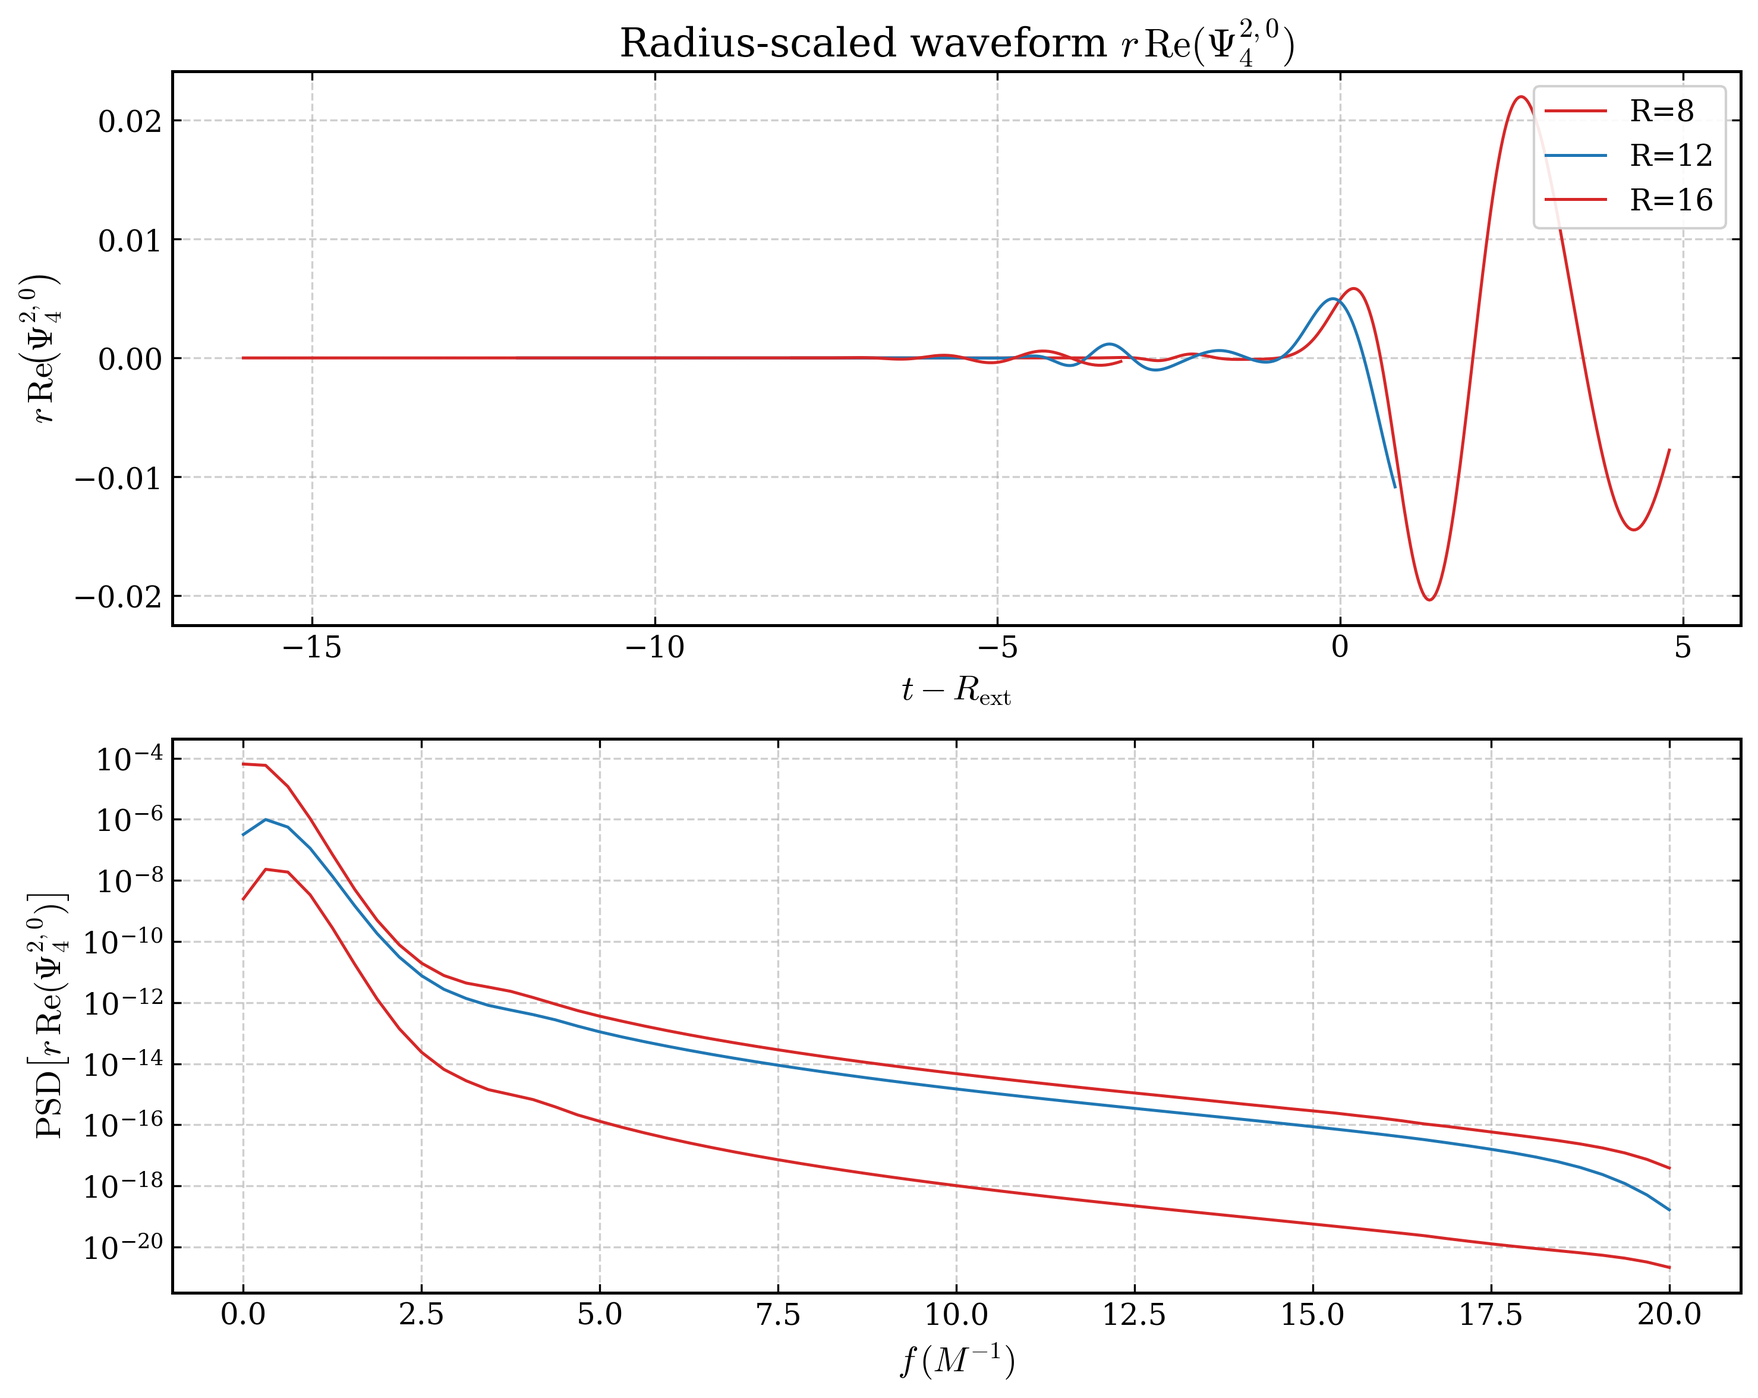
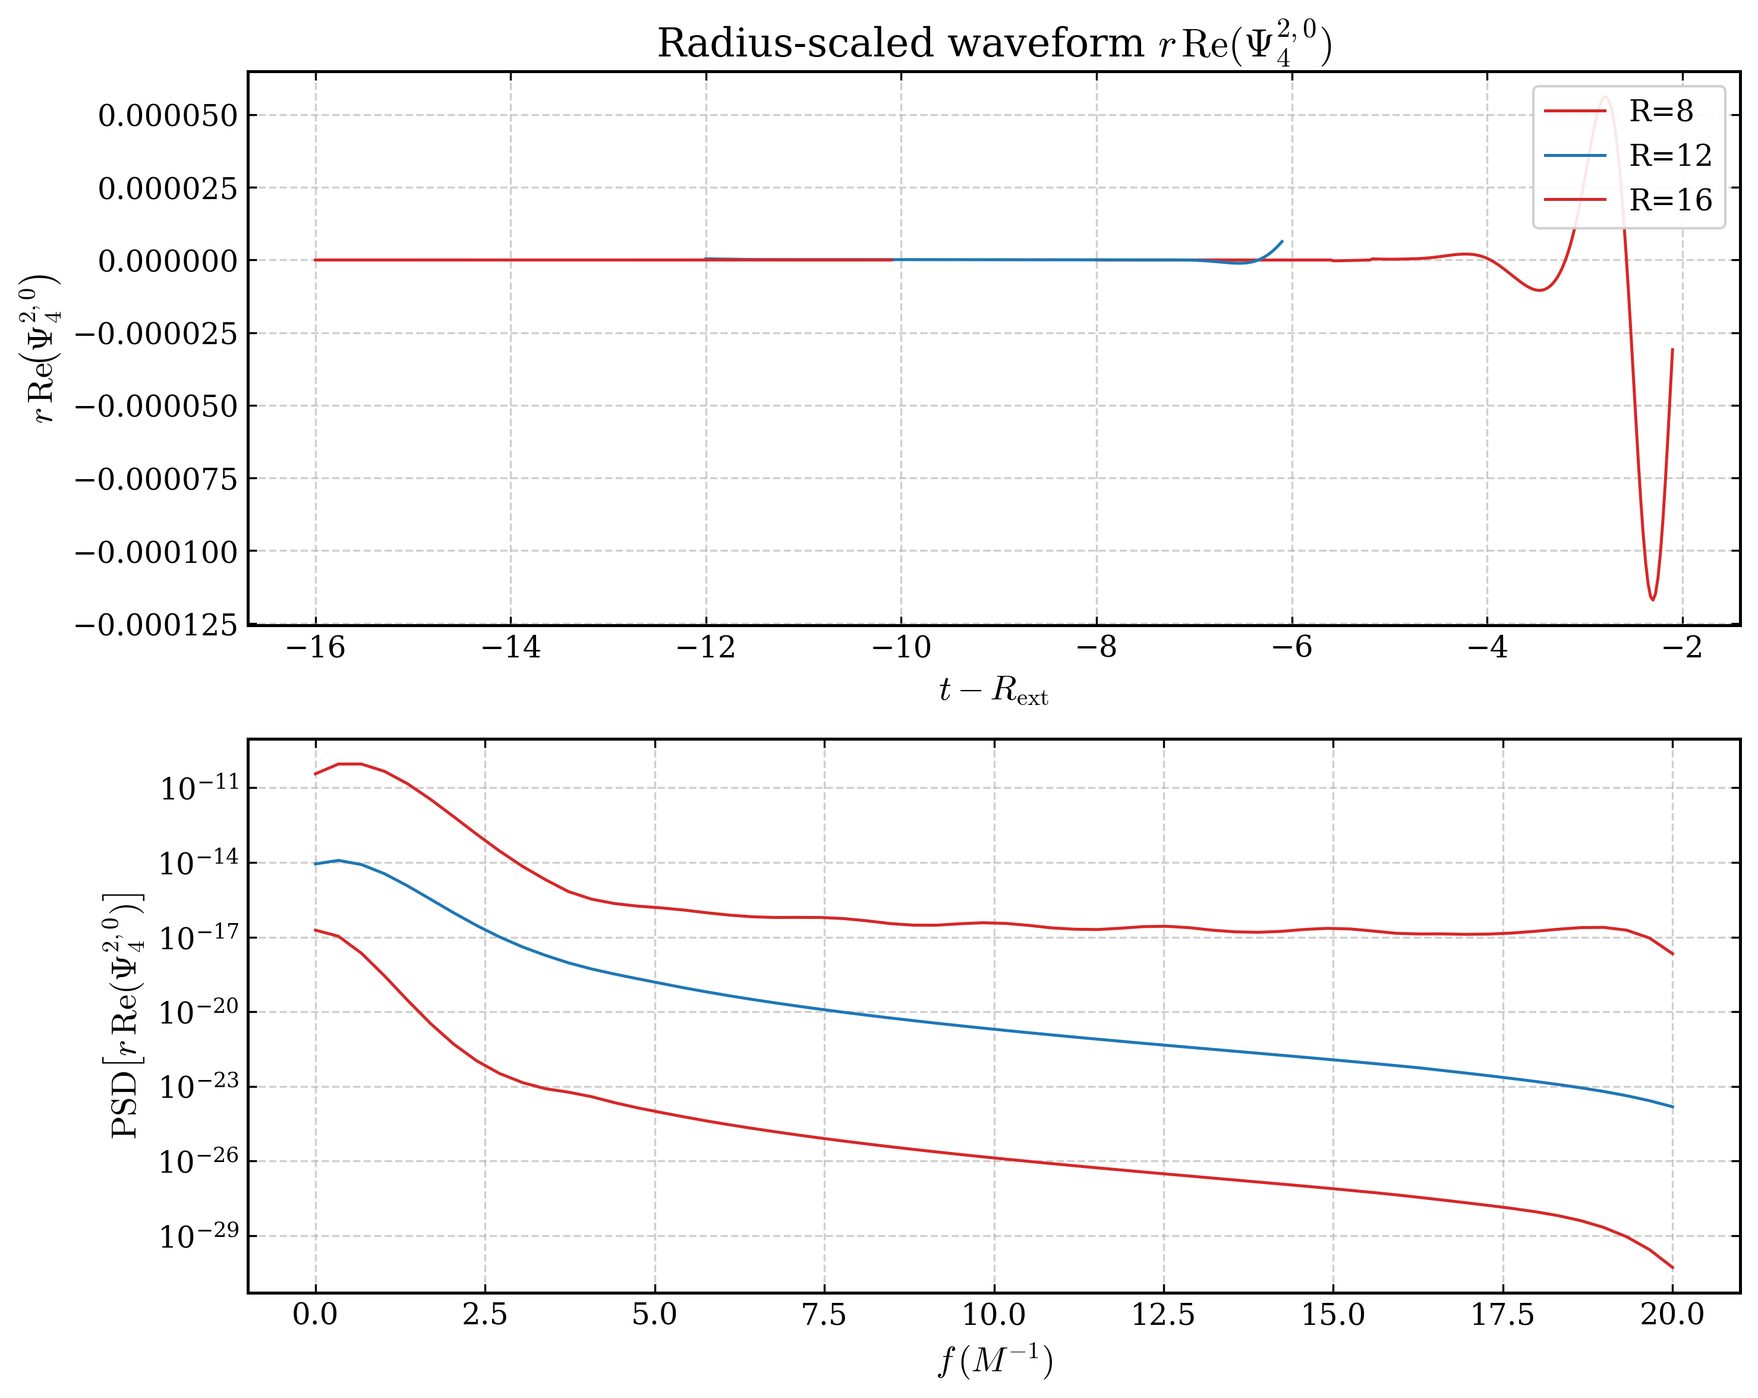
feat: new delayed kick added

diff --git a/Examples/SupportedWormholeCollapse/SupportedWormholeLevel.cpp b/Examples/SupportedWormholeCollapse/SupportedWormholeLevel.cpp
@@ -13,6 +13,7 @@
 
 #include <AMReX_Reduce.H>
 #include <AMReX_Utility.H>
+#include <cmath>
 
 void SupportedWormholeLevel::variableSetUp()
 {
@@ -98,6 +99,75 @@ void SupportedWormholeLevel::specificEvalRHS(amrex::MultiFab &a_soln,
     amrex::ParallelFor(
         a_rhs, [=] AMREX_GPU_DEVICE(int box_no, int i, int j, int k)
         { ccz4rhs(i, j, k, rhs_arrs[box_no], soln_c_arrs[box_no]); });
+
+    const auto delayed_start =
+        simParams().wormhole_params.delayed_kick_start;
+    const auto delayed_duration =
+        simParams().wormhole_params.delayed_kick_duration;
+    const auto delayed_monopole =
+        simParams().wormhole_params.delayed_kick_monopole_amplitude;
+    const auto delayed_quadrupole =
+        simParams().wormhole_params.delayed_kick_quadrupole_amplitude;
+    const auto delayed_width =
+        simParams().wormhole_params.delayed_kick_width;
+
+    if (delayed_start >= 0.0 && delayed_duration > 0.0 &&
+        ((delayed_monopole != 0.0) || (delayed_quadrupole != 0.0)) &&
+        delayed_width > 0.0 && a_time >= delayed_start &&
+        a_time <= delayed_start + delayed_duration)
+    {
+        const double x = (a_time - delayed_start) / delayed_duration;
+        // Smooth pulse with zero endpoints. The time integral over the window is
+        // unity, so the delayed amplitudes correspond approximately to the
+        // injected change in K.
+        const double temporal_weight =
+            (1.0 - std::cos(2.0 * M_PI * x)) / delayed_duration;
+        const double sig2 = delayed_width * delayed_width;
+        const auto center = simParams().wormhole_params.grid_center;
+        const auto centerA = simParams().wormhole_params.centerA;
+        const auto centerB = simParams().wormhole_params.centerB;
+        const int metric_type = simParams().wormhole_params.metric_type;
+        const double dx = Geom().CellSize(0);
+
+        amrex::ParallelFor(
+            a_rhs, [=] AMREX_GPU_DEVICE(int box_no, int i, int j, int k)
+            {
+                Coordinates coords(amrex::IntVect(AMREX_D_DECL(i, j, k)), dx,
+                                   center);
+                const amrex::Real xloc = coords.x;
+                const amrex::Real yloc = coords.y;
+                const amrex::Real zloc = coords.z;
+
+                const amrex::Real dxA = xloc - centerA[0];
+                const amrex::Real dyA = yloc - centerA[1];
+                const amrex::Real dzA = zloc - centerA[2];
+                const amrex::Real rA2 = dxA * dxA + dyA * dyA + dzA * dzA;
+                const amrex::Real rA2_safe = amrex::max(rA2, amrex::Real(1.0e-24));
+                const amrex::Real y20A = 3.0 * dzA * dzA / rA2_safe - 1.0;
+                const amrex::Real kickA =
+                    (delayed_monopole + delayed_quadrupole * y20A) *
+                    std::exp(-rA2 / sig2);
+
+                amrex::Real delayed_kick = kickA;
+                if (metric_type != 1)
+                {
+                    const amrex::Real dxB = xloc - centerB[0];
+                    const amrex::Real dyB = yloc - centerB[1];
+                    const amrex::Real dzB = zloc - centerB[2];
+                    const amrex::Real rB2 = dxB * dxB + dyB * dyB + dzB * dzB;
+                    const amrex::Real rB2_safe =
+                        amrex::max(rB2, amrex::Real(1.0e-24));
+                    const amrex::Real y20B =
+                        3.0 * dzB * dzB / rB2_safe - 1.0;
+                    delayed_kick +=
+                        (delayed_monopole + delayed_quadrupole * y20B) *
+                        std::exp(-rB2 / sig2);
+                }
+
+                rhs_arrs[box_no](i, j, k, c_K) +=
+                    temporal_weight * delayed_kick;
+            });
+    }
 
     amrex::Gpu::streamSynchronize();
 }

diff --git a/Examples/SupportedWormholeCollapse/SimulationParameters.hpp b/Examples/SupportedWormholeCollapse/SimulationParameters.hpp
@@ -66,6 +66,16 @@ class SimulationParameters : public SimulationParametersBase
                 -1.0); // negative means no ramp
         pp.load("wormhole_support_ramp_duration", wormhole_params.support_ramp_duration,
                 5.0);
+        pp.load("wormhole_delayed_kick_start",
+                wormhole_params.delayed_kick_start, -1.0);
+        pp.load("wormhole_delayed_kick_duration",
+                wormhole_params.delayed_kick_duration, 0.0);
+        pp.load("wormhole_delayed_kick_monopole_amplitude",
+                wormhole_params.delayed_kick_monopole_amplitude, 0.0);
+        pp.load("wormhole_delayed_kick_quadrupole_amplitude",
+                wormhole_params.delayed_kick_quadrupole_amplitude, 0.0);
+        pp.load("wormhole_delayed_kick_width",
+                wormhole_params.delayed_kick_width, 0.0);
 
         // Kick parameters:
         // - wormhole_k_monopole_amplitude controls the coherent compressive part
@@ -106,6 +116,20 @@ class SimulationParameters : public SimulationParametersBase
                          (wormhole_params.k_quadrupole_amplitude == 0.0)) ||
                             (wormhole_params.k_width > 0.0),
                         "must be > 0 when any wormhole kick amplitude is nonzero");
+
+        check_parameter(
+            "wormhole_delayed_kick_width", wormhole_params.delayed_kick_width,
+            ((wormhole_params.delayed_kick_monopole_amplitude == 0.0) &&
+             (wormhole_params.delayed_kick_quadrupole_amplitude == 0.0)) ||
+                (wormhole_params.delayed_kick_width > 0.0),
+            "must be > 0 when any delayed kick amplitude is nonzero");
+        check_parameter(
+            "wormhole_delayed_kick_duration",
+            wormhole_params.delayed_kick_duration,
+            ((wormhole_params.delayed_kick_monopole_amplitude == 0.0) &&
+             (wormhole_params.delayed_kick_quadrupole_amplitude == 0.0)) ||
+                (wormhole_params.delayed_kick_duration > 0.0),
+            "must be > 0 when any delayed kick amplitude is nonzero");
     }
 
     bool calculate_constraint_norms{};

diff --git a/Examples/SupportedWormholeCollapse/SupportedWormholeInitialData.hpp b/Examples/SupportedWormholeCollapse/SupportedWormholeInitialData.hpp
@@ -78,6 +78,16 @@ class SupportedWormholeInitialData
         double support_strength;
         double support_ramp_start;
         double support_ramp_duration;
+
+        // Optional delayed kick applied during evolution after the support has
+        // begun to switch off. This is distinct from the t=0 initial-data kick
+        // above and is used to probe the unsupported branch after the throat has
+        // been de-supported.
+        double delayed_kick_start;
+        double delayed_kick_duration;
+        double delayed_kick_monopole_amplitude;
+        double delayed_kick_quadrupole_amplitude;
+        double delayed_kick_width;
     };
 
     SupportedWormholeInitialData(params_t a_params, double a_dx)

diff --git a/Article.md b/Article.md
@@ -98,7 +98,7 @@ as an initial value problem, using the 3+1 decomposition and setting $G = c = 1$
 \begin{equation}
     ds^2 = \left(-\alpha^2 + \beta_i \beta^i \right) dt^2 + 2 \beta_i dt dx^i + \gamma_{ij} dx^i dx^j.
 \end{equation}
-The dynamical evolution is governed by the vacuum ($T_{\mu\nu}=0$) Einstein equations, implemented within the \texttt{GRTeclyn} framework using the conformal and covariant Z4 (CCZ4) formulation. To simulate the collapse of a wormhole, we must define the initial geometry on $\Sigma_0$ and provide an explicit mechanism that drives the system toward topological pinch-off. In pure analytical relativity, an unstable equilibrium (such as an unsupported wormhole throat) will eventually collapse under any infinitesimal perturbation. However, in numerical relativity, initial data that violates the Hamiltonian constraint but possesses perfect time symmetry ($K_{ij} = 0$) sits at a mathematical saddle point. Because the initial coordinate velocities are exactly zero, the simulated spacetime will attempt to remain artificially static until numerical truncation errors—which are inherently small and stochastic—accumulate enough to push the system off the equilibrium point. To prevent this arbitrary, resolution-dependent "hovering" period and to systematically control the onset of the dynamics, it is standard practice to manually inject a small, controlled perturbation (a "kick") into the extrinsic curvature to explicitly break the time symmetry and reliably trigger the collapse.
+For the supported-collapse experiments studied here, the dynamical evolution is governed by the Einstein equations coupled to a phantom scalar field, implemented within the \texttt{GRTeclyn} framework using the conformal and covariant Z4 (CCZ4) formulation. Our objective is to start from a constraint-consistent Ellis-Bronnikov wormhole at $t=0$ and then drive the system away from equilibrium by reducing the exotic support that keeps the throat open. In this setup, the primary trigger is the controlled removal of the supporting stress-energy, not a large vacuum kick. Any extrinsic-curvature perturbation that is added is kept parametrically small and is used only to select the unstable branch and break exact spherical symmetry. This ``clean'' supported setup is therefore conceptually distinct from separate forced-collapse vacuum experiments, in which a strong kick dominates the early-time dynamics.
 
 \subsection{Initial Data: The Morris-Thorne Wormhole in Isotropic Coordinates}
 
@@ -135,18 +135,29 @@ This smoothly vanishes at the origin ($\chi \to 0$), accurately mirroring the "p
 
 \subsection{Dynamical Triggering via Support Removal}
 
-The initialized Ellis-Bronnikov geometry requires exotic matter violating the Null Energy Condition to remain static. Previous studies often relied on a "sudden approximation," evolving this geometry in a pure vacuum ($T_{\mu\nu}=0$), which results in a massive, instantaneous violation of the Hamiltonian constraint and violent numerical transients.
+The initialized Ellis-Bronnikov geometry requires exotic matter violating the Null Energy Condition to remain static. Previous studies often relied on a ``sudden approximation,'' evolving this geometry in a pure vacuum ($T_{\mu\nu}=0$), which results in a massive, instantaneous violation of the Hamiltonian constraint and violent numerical transients.
 
 To achieve a physically consistent, controlled collapse, we instead explicitly model the required exotic matter. We couple the CCZ4 evolution to a "phantom" scalar field $\phi$. The stress-energy tensor for this field is defined with a reversed overall sign relative to a canonical scalar field, providing the negative energy density necessary to support the wormhole throat and satisfy the constraints at $t=0$.
 
-We systematically control the onset of the dynamics by smoothly removing this supporting matter. We define a time-dependent support strength multiplier $S(t)$. For an initial settling period ($t < t_{\rm start}$), $S(t) = 1$, and the wormhole remains in a supported, quasi-static equilibrium. To trigger the collapse, $S(t)$ is smoothly ramped down to zero over a duration $\Delta t$ using a cosine profile:
+We systematically control the onset of the dynamics by reducing this support in a causal, throat-centered manner. Rather than switching the entire slice at once, we define a local support multiplier
 \begin{equation}
-    S(t) = \frac{1}{2} \left[ 1 + \cos\left( \pi \frac{t - t_{\rm start}}{\Delta t} \right) \right].
+    S(\mathbf{x},t) = S_0\!\left(t - \frac{r_{\rm th}(\mathbf{x})}{v_{\rm c}}\right),
 \end{equation}
-As the exotic matter support vanishes, gravity dictates the dynamics, and the throat naturally collapses under its own weight. To break exact spherical symmetry and generate a small, clean gravitational wave signal, we inject a minor quadrupole ($l=2$) perturbation into the extrinsic curvature:
+where $r_{\rm th}(\mathbf{x})$ is the coordinate distance to the nearest throat and $v_{\rm c}$ is the speed at which the support-removal front propagates outward. The throat-center schedule $S_0$ is held at unity during an initial settling stage and then reduced smoothly to zero over a duration $\Delta t$ using a cosine profile:
 \begin{equation}
-    K(\bar{r}, \theta, \phi) = A_2 \exp\left(-\frac{\bar{r}^2}{\sigma^2}\right) Y_{20}(\theta, \phi).
+    S_0(t) =
+    \begin{cases}
+        1, & t \le t_{\rm start}, \\
+        \frac{1}{2} \left[ 1 + \cos\left( \pi \frac{t - t_{\rm start}}{\Delta t} \right) \right], & t_{\rm start} < t < t_{\rm start} + \Delta t, \\
+        0, & t \ge t_{\rm start} + \Delta t.
+    \end{cases}
 \end{equation}
+This construction suppresses the unphysical, non-causal whole-domain response produced by a global quench and ensures that the unsupported region first forms near the throat and only later propagates outward through the rest of the slice. In the clean supported-collapse setup, we set the initial-data kick to zero at $t=0$ so that the spacetime begins in a supported equilibrium state without an artificial implosive impulse. After the support-removal front has passed through the throat and the geometry has entered the unsupported regime, we then apply a separate weak delayed pulse in the trace of the extrinsic curvature,
+\begin{equation}
+    K(\bar{r}, \theta, \phi) = \left[A_0 + A_2 Y_{20}(\theta, \phi)\right]
+    \exp\left(-\frac{\bar{r}^2}{\sigma^2}\right),
+\end{equation}
+with $|A_0|, |A_2| \ll 1$, multiplied by a compact-in-time envelope and activated only after a prescribed delay $t_{\rm kick} > t_{\rm start} + \Delta t$. Operationally, this means that support removal remains the primary physical trigger, while the delayed $K$ pulse acts only as a branch selector and symmetry breaker that nudges the now-unsupported throat off the near-equilibrium branch. This delayed forcing cleanly separates the physical de-supporting process from the later perturbation used to probe whether the unsupported geometry relaxes, disperses, or enters genuine topological collapse.
 
 \subsection{Apparent Horizon Detection}
 
@@ -162,11 +173,11 @@ To ensure stability through the highly non-linear topological transition from a 
 
 For the shift vector, we initially set $\beta^i = 0$. Since our initial state possesses no tangential rotation or shift, and the physical mechanism under investigation is a radial pinch-off, a vanishing initial shift prevents gauge-induced artifacts from contaminating the early gravitational wave extraction.
 
-For the lapse function, we employ the $1+\log$ slicing condition, which evolves as $\partial_t \alpha - \beta^i \partial_i \alpha = -2\alpha K$. To prevent severe "gauge shocks" at $t=0$ caused by the massive curvature at the throats, we initialize the lapse in a "pre-collapsed" state:
+For the lapse function, we employ the $1+\log$ slicing condition, which evolves as $\partial_t \alpha - \beta^i \partial_i \alpha = -2\alpha K$. In the clean supported runs we initialize the lapse as
 \begin{equation}
-    \alpha(t=0) = \chi^{1/2} = \left( \frac{4\bar{r}^2}{4\bar{r}^2 + b_0^2} \right)^{2}.
+    \alpha(t=0) = 1,
 \end{equation}
-As $\bar{r} \to 0$ (the asymptotic infinity of the secondary universe), the lapse smoothly approaches zero. During the evolution, as the wormhole throat collapses and physical singularities begin to form, the $1+\log$ condition forces the lapse to drop rapidly toward zero ("lapse collapse"), effectively freezing the evolution near the singularities and preventing numerical breakdown.
+so that the subsequent lapse evolution is generated dynamically by the matter removal and the geometry itself rather than being biased toward an already ``pre-collapsed'' gauge profile. During the evolution, if the throat truly enters a collapsing branch and physical singularities begin to form, the $1+\log$ condition drives the lapse toward zero (``lapse collapse''), effectively freezing the evolution near the singular region and preventing numerical breakdown.
 
 
 
@@ -178,7 +189,7 @@ Numerical evolutions were performed using the \texttt{GRTeclyn} codebase, which 
 
 The full physical computational domain spans a coordinate length of $L_{\text{full}} = 80.0$, covered by a coarse grid of $N_{\text{full}} = 160$ cells, yielding a coarse resolution of $dx_{\text{coarse}} = 0.5$. However, to drastically minimize memory consumption, we rigorously exploit the Cartesian reflection symmetries inherent in the spherically symmetric initial geometry. We evolve only the positive octant ($x \ge 0, y \ge 0, z \ge 0$) of the full domain, effectively modeling just 1/8th of the physical volume. Parity symmetry conditions are strictly applied at the inner reflection boundaries ($x=0, y=0, z=0$), while Sommerfeld radiative boundary conditions are enforced at the outer edges.
 
-To capture the extreme curvature gradients developing during the collapse while maintaining tractability, we employ 5 levels of 2:1 adaptive mesh refinement (AMR). The mesh is dynamically regridded based on the gradients of the conformal factor ($\chi$), allowing the code to focus resolution precisely where the wormhole throat is pinching off. On the finest level of refinement (level 5), the grid spacing reaches $dx_{\text{fine}} \approx 0.0156$. Time stepping is handled using a 4th-order Runge-Kutta scheme, with a Courant factor (dt\_multiplier) reduced to 0.1 to guarantee stability during the violent topological transition.
+To capture the extreme curvature gradients developing during the collapse while maintaining tractability, we employ 5 levels of 2:1 adaptive mesh refinement (AMR). The mesh is dynamically regridded based on the gradients of the conformal factor ($\chi$), allowing the code to focus resolution precisely where the wormhole throat is pinching off. On the finest level of refinement (level 5), the grid spacing reaches $dx_{\text{fine}} \approx 0.0156$. Time stepping is handled using a 4th-order Runge-Kutta scheme, with a conservative Courant factor (dt\_multiplier) reduced to 0.05 to maintain stability during the long, weakly forced supported evolutions as well as the more abrupt collapse branches.
 
 The primary objective of this work is to investigate the collapse dynamics subject to Gaussian extrinsic curvature perturbations. We explored two main geometric configurations:
 \begin{enumerate}
@@ -221,7 +232,7 @@ The specific topology of the spacetime (e.g., number of mouths or punctures) is 
     \label{fig:k_evolution}
 \end{figure*}
 
-To establish the stability and dynamical fate of the wormhole topology, we performed a series of simulations evolving the supported Ellis-Bronnikov wormhole. The support strength $S(t)$ was held at $1.0$ for an initial period to allow initial data transients to damp, and then smoothly reduced to zero over $t \in [5.0, 10.0]M$. A small quadrupole perturbation ($A_2 = 0.02$) was included to break exact spherical symmetry.
+To establish the stability and dynamical fate of the wormhole topology, we performed a series of simulations evolving the supported Ellis-Bronnikov wormhole. At the throat center, the support schedule was held at $S_0=1$ for an initial period to allow the geometry to settle, and then smoothly reduced over $t \in [5.0, 10.0]M$ while the support-removal front propagated causally outward from the throat. Only a weak branch-selecting perturbation was retained in $K$ so that the support reduction, rather than a violent kick, remained the dominant trigger.
 
 Contrary to the expectation of a violent, immediate collapse into a black hole (as often seen in violently over-kicked vacuum initial data), the controlled removal of the scalar field support reveals a more gradual dynamical relaxation. 
 
